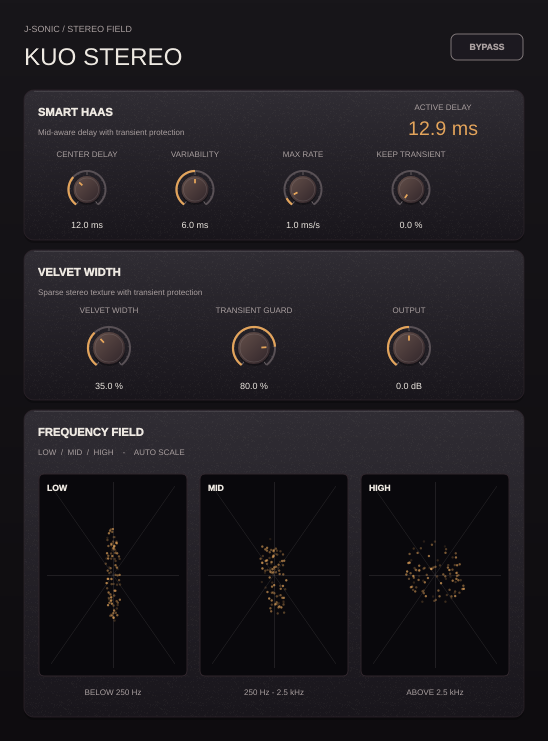
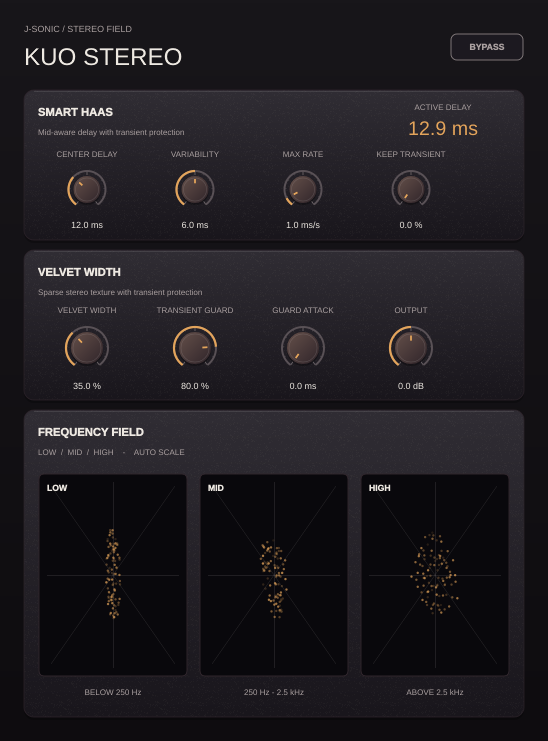
Add adjustable Velvet Guard attack and document transient response

diff --git a/projects/KuoStereo/Tests/ProcessorTests.cpp b/projects/KuoStereo/Tests/ProcessorTests.cpp
@@ -21,13 +21,14 @@ void set (KuoStereoProcessor& processor, const char* id, float value)
     parameter->setValueNotifyingHost (parameter->convertTo0to1 (value));
 }
 
-float impulseSideEnergy (float guard)
+float impulseSideEnergy (float guard, float attackMs = 0)
 {
     KuoStereoProcessor processor;
     set (processor, "haasCenter", 30);
     set (processor, "haasRange", 0);
     set (processor, "width", 100);
     set (processor, "transientProtect", guard);
+    set (processor, "guardAttack", attackMs);
     processor.prepareToPlay (48000, 256);
     juce::AudioBuffer<float> buffer (2, 256);
     juce::MidiBuffer midi;
@@ -155,7 +156,7 @@ int main (int argc, char** argv)
         check (processor.getName() == "Kuo Stereo", "plug-in identity is Kuo Stereo");
         check (std::abs (processor.getCurrentDelayMs() - 12.0f) < 0.001f,
                "active delay initially displays the default center before audio starts");
-        check (processor.getParameters().size() == 8, "all eight host parameters are registered");
+        check (processor.getParameters().size() == 9, "all nine host parameters are registered");
         auto buses = processor.getBusesLayout();
         check (processor.isBusesLayoutSupported (buses), "stereo layout is supported");
         buses.outputBuses.set (0, juce::AudioChannelSet::mono());
@@ -166,6 +167,7 @@ int main (int argc, char** argv)
         set (processor, "haasKeepTransient", 67.0f);
         set (processor, "width", 71.0f);
         set (processor, "transientProtect", 91.0f);
+        set (processor, "guardAttack", 3.5f);
         juce::MemoryBlock state;
         processor.getStateInformation (state);
         KuoStereoProcessor restored;
@@ -227,8 +229,14 @@ int main (int argc, char** argv)
         check (sideEnergy > 0.01f, "velvet convolution widens a centered sustained tone");
         const auto unguarded = impulseSideEnergy (0);
         const auto guarded = impulseSideEnergy (100);
+        const auto slowGuard = impulseSideEnergy (100, 5);
+        const auto noGuardSlowAttack = impulseSideEnergy (0, 5);
         check (unguarded > 0.01f && guarded < unguarded * 0.2f,
                "transient guard suppresses the widened impulse tail");
+        check (slowGuard > guarded && slowGuard < unguarded,
+               "Guard Attack softens attenuation of a sharp impulse");
+        check (std::abs (noGuardSlowAttack - unguarded) < 0.00001f,
+               "Guard Attack has no effect when Transient Guard is zero");
         const auto guardedBed = noiseBedSideEnergy (100);
         const auto unguardedBed = noiseBedSideEnergy (0);
         check (guardedBed > 0.0001f && guardedBed < unguardedBed * 0.25f,
@@ -398,7 +406,7 @@ int main (int argc, char** argv)
             int knobs = 0;
             for (auto* child : editor->getChildren())
                 if (dynamic_cast<juce::Slider*> (child) != nullptr) ++knobs;
-            check (knobs == 7, "editor exposes transient-aware Haas and widening controls");
+            check (knobs == 8, "editor exposes Guard Attack beside the widening controls");
             const auto image = editor->createComponentSnapshot (editor->getLocalBounds());
             check (image.isValid(), "frequency-split goniometer editor renders");
             if (argc > 2)

diff --git a/projects/KuoStereo/Measurements/generate_report.py b/projects/KuoStereo/Measurements/generate_report.py
@@ -112,6 +112,8 @@ def main(raw_dir, report_dir):
     tail = (transient_time >= 4) & (transient_time < 28)
     no_guard = rms(columns["velvet_side_no_guard"][tail])
     guard = rms(columns["velvet_side_guard"][tail])
+    guard_half_ms = rms(columns["velvet_side_attack_half_ms"][tail])
+    guard_five_ms = rms(columns["velvet_side_attack_five_ms"][tail])
     onset_index = int(np.argmin(np.abs(transient_time)))
     delay = read_csv(raw_dir / "transient_delay.csv")
     delay_time = np.array([float(row["time_ms"]) for row in delay])
@@ -130,7 +132,9 @@ def main(raw_dir, report_dir):
     kernel = np.ones(24) / 24  # 0.5 ms moving RMS at 48 kHz
     for key, label, colour in (
         ("velvet_side_no_guard", "Velvet guard 0%", "#314e79"),
-        ("velvet_side_guard", "Velvet guard 100%", "#ca7939"),
+        ("velvet_side_guard", "Guard 100%, attack 0 ms", "#ca7939"),
+        ("velvet_side_attack_half_ms", "Guard 100%, attack 0.5 ms", "#569477"),
+        ("velvet_side_attack_five_ms", "Guard 100%, attack 5 ms", "#9869a7"),
     ):
         envelope = np.sqrt(np.convolve(columns[key] ** 2, kernel, mode="same"))
         axes[2].plot(transient_time, envelope, color=colour, label=label)
@@ -259,6 +263,9 @@ def main(raw_dir, report_dir):
         "Haas Keep holds for 10 ms after the last detected onset, then crossfades",
         "back over 65 ms. Velvet Guard attenuates convolution input only while",
         "the detector reports an onset, with no fixed suppression interval.",
+        "Guard Attack sets a 0–10 ms linear ramp into attenuation while the",
+        "detector remains active. At 0 ms the guard acts immediately; longer",
+        "settings let more of a brief attack into Velvet's convolution history.",
         "",
         "![Equal-amplitude spectral onset](spectral-onset.png)",
         "",
@@ -278,9 +285,14 @@ def main(raw_dir, report_dir):
         f'- At onset, the right sample is {columns["right_normal"][onset_index]:.4f} with Keep 0% '
         f'and {columns["right_kept"][onset_index]:.4f} with Keep 100% '
         f'(input {columns["input"][onset_index]:.4f}).',
-        f'- Velvet-added side RMS from 4–28 ms is {no_guard:.5f} at Guard 0% '
-        f'and {guard:.5f} at Guard 100% '
-        f'({100 * (1 - guard / no_guard):.1f}% reduction).',
+        "",
+        "| Guard Attack | Velvet-added side RMS, 4–28 ms | Reduction vs Guard 0% |",
+        "| --- | ---: | ---: |",
+        f'| Guard 0% | {no_guard:.5f} | — |',
+        f'| 0 ms | {guard:.5f} | {100 * (1 - guard / no_guard):.1f}% |',
+        f'| 0.5 ms | {guard_half_ms:.5f} | {100 * (1 - guard_half_ms / no_guard):.1f}% |',
+        f'| 5 ms | {guard_five_ms:.5f} | {100 * (1 - guard_five_ms / no_guard):.1f}% |',
+        "",
         "- The protected Haas path reaches 0 ms during the onset and returns after",
         "  its 10 ms hold and 65 ms tap crossfade; normal Haas stays at 12 ms.",
         "",

diff --git a/projects/KuoStereo/Source/PluginProcessor.cpp b/projects/KuoStereo/Source/PluginProcessor.cpp
@@ -18,6 +18,7 @@ juce::AudioProcessorValueTreeState::ParameterLayout KuoStereoProcessor::layout()
     add ("haasKeepTransient", "Haas keep transient", 0, 100, 0.1f, 0, "%");
     add ("width", "Velvet width", 0, 100, 0.1f, 35, "%");
     add ("transientProtect", "Transient protection", 0, 100, 0.1f, 80, "%");
+    add ("guardAttack", "Velvet guard attack", 0, 10, 0.1f, 0, "ms");
     add ("output", "Output", -12, 12, 0.1f, 0, "dB");
     result.add (std::make_unique<juce::AudioParameterBool> (juce::ParameterID { "bypass", 1 },
         "Bypass", false));
@@ -47,6 +48,7 @@ void KuoStereoProcessor::prepareToPlay (double rate, int)
     detectorLowStates = {};
     detectorFastEnvelopes = detectorSlowEnvelopes = {};
     haasTransientEnvelope = 0;
+    velvetGuardEnvelope = 0;
     widthBlend = 0;
     const auto centerDelayMs = parameters.getRawParameterValue ("haasCenter")->load();
     targetDelaySamples = smoothDelaySamples = centerDelayMs * 0.001f * sampleRate;
@@ -252,6 +254,9 @@ void KuoStereoProcessor::processBlock (juce::AudioBuffer<float>& buffer, juce::M
     const auto transientReleaseStep = 1.0f / (0.065f * sampleRate);
     const auto widthTarget = parameters.getRawParameterValue ("width")->load() * 0.01f;
     const auto protection = parameters.getRawParameterValue ("transientProtect")->load() * 0.01f;
+    const auto guardAttackMs = parameters.getRawParameterValue ("guardAttack")->load();
+    const auto guardAttackStep = guardAttackMs <= 0.0f ? 1.0f
+        : 1.0f / (guardAttackMs * 0.001f * sampleRate);
     const auto gain = juce::Decibels::decibelsToGain (parameters.getRawParameterValue ("output")->load());
     const auto bypass = parameters.getRawParameterValue ("bypass")->load() >= 0.5f;
     auto* left = buffer.getWritePointer (0);
@@ -282,8 +287,9 @@ void KuoStereoProcessor::processBlock (juce::AudioBuffer<float>& buffer, juce::M
             transientHold = juce::roundToInt (0.010f * sampleRate);
         else if (transientHold > 0)
             --transientHold;
-        // Guard only detector-active samples; the Velvet history keeps its sustained texture.
-        const auto velvetInput = mid * (onset ? 1.0f - protection : 1.0f);
+        // Guard only detector-active samples; Attack controls how quickly attenuation reaches its set depth.
+        velvetGuardEnvelope = onset ? std::min (1.0f, velvetGuardEnvelope + guardAttackStep) : 0.0f;
+        const auto velvetInput = mid * (1.0f - protection * velvetGuardEnvelope);
         leftHistory[static_cast<size_t> (writePosition)] = dryLeft;
         rightHistory[static_cast<size_t> (writePosition)] = dryRight;
         midHistory[static_cast<size_t> (writePosition)] = mid;

diff --git a/projects/KuoStereo/Measurements/FeatureMeasurements.cpp b/projects/KuoStereo/Measurements/FeatureMeasurements.cpp
@@ -37,7 +37,7 @@ void set (KuoStereoProcessor& processor, const char* id, float value)
 
 struct Settings
 {
-    float center = 12, range = 0, rate = 10, keep = 0, width = 0, guard = 0;
+    float center = 12, range = 0, rate = 10, keep = 0, width = 0, guard = 0, guardAttack = 0;
 };
 
 struct Render
@@ -55,6 +55,7 @@ Render render (const Samples& input, const Settings& settings)
     set (processor, "haasKeepTransient", settings.keep);
     set (processor, "width", settings.width);
     set (processor, "transientProtect", settings.guard);
+    set (processor, "guardAttack", settings.guardAttack);
     processor.prepareToPlay (sampleRate, blockSize);
     Render result;
     result.left.resize (input.size());
@@ -131,8 +132,11 @@ void measureTransient (const std::filesystem::path& directory)
     const auto kept = render (input, { 12, 0, 10, 100, 0, 0 });
     const auto unguarded = render (input, { 12, 0, 10, 0, 100, 0 });
     const auto guarded = render (input, { 12, 0, 10, 0, 100, 100 });
+    const auto guardedFast = render (input, { 12, 0, 10, 0, 100, 100, 0.5f });
+    const auto guardedSlow = render (input, { 12, 0, 10, 0, 100, 100, 5.0f });
     std::ofstream csv (directory / "transient.csv");
-    csv << "time_ms,input,right_normal,right_kept,velvet_side_no_guard,velvet_side_guard\n"
+    csv << "time_ms,input,right_normal,right_kept,velvet_side_no_guard,velvet_side_guard,"
+           "velvet_side_attack_half_ms,velvet_side_attack_five_ms\n"
         << std::fixed << std::setprecision (10);
     for (int i = onset - sampleRate / 200; i < onset + sampleRate / 20; ++i)
     {
@@ -141,7 +145,9 @@ void measureTransient (const std::filesystem::path& directory)
         csv << 1000.0 * (i - onset) / sampleRate << ',' << input[index] << ','
             << baseline.right[index] << ',' << kept.right[index] << ','
             << unguarded.left[index] - unguarded.right[index] - side << ','
-            << guarded.left[index] - guarded.right[index] - side << '\n';
+            << guarded.left[index] - guarded.right[index] - side << ','
+            << guardedFast.left[index] - guardedFast.right[index] - side << ','
+            << guardedSlow.left[index] - guardedSlow.right[index] - side << '\n';
     }
     std::ofstream delay (directory / "transient_delay.csv");
     delay << "time_ms,normal_ms,kept_ms\n" << std::fixed << std::setprecision (9);

diff --git a/projects/KuoStereo/Source/PluginEditor.cpp b/projects/KuoStereo/Source/PluginEditor.cpp
@@ -122,13 +122,13 @@ KuoStereoEditor::KuoStereoEditor (KuoStereoProcessor& p)
     setLookAndFeel (&look);
     addAndMakeVisible (bypass);
     bypassAttachment = std::make_unique<State::ButtonAttachment> (p.parameters, "bypass", bypass);
-    constexpr std::array<const char*, 7> ids {
+    constexpr std::array<const char*, 8> ids {
         "haasCenter", "haasRange", "haasRate", "haasKeepTransient",
-        "width", "transientProtect", "output" };
-    constexpr std::array<const char*, 7> names {
+        "width", "transientProtect", "guardAttack", "output" };
+    constexpr std::array<const char*, 8> names {
         "CENTER DELAY", "VARIABILITY", "MAX RATE", "KEEP TRANSIENT",
-        "VELVET WIDTH", "TRANSIENT GUARD", "OUTPUT" };
-    constexpr std::array<const char*, 7> units { " ms", " ms", " ms/s", " %", " %", " %", " dB" };
+        "VELVET WIDTH", "TRANSIENT GUARD", "GUARD ATTACK", "OUTPUT" };
+    constexpr std::array<const char*, 8> units { " ms", " ms", " ms/s", " %", " %", " %", " ms", " dB" };
     for (size_t i = 0; i < sliders.size(); ++i)
     {
         auto& slider = sliders[i];
@@ -155,14 +155,15 @@ KuoStereoEditor::KuoStereoEditor (KuoStereoProcessor& p)
 void KuoStereoEditor::resized()
 {
     bypass.setBounds (450, 33, 74, 28);
-    const std::array<juce::Rectangle<int>, 7> positions {
+    const std::array<juce::Rectangle<int>, 8> positions {
         juce::Rectangle<int> (35, 163, 104, 70),
         juce::Rectangle<int> (143, 163, 104, 70),
         juce::Rectangle<int> (251, 163, 104, 70),
         juce::Rectangle<int> (359, 163, 104, 70),
-        juce::Rectangle<int> (44, 319, 130, 75),
-        juce::Rectangle<int> (189, 319, 130, 75),
-        juce::Rectangle<int> (344, 319, 130, 75)
+        juce::Rectangle<int> (35, 319, 104, 75),
+        juce::Rectangle<int> (143, 319, 104, 75),
+        juce::Rectangle<int> (251, 319, 104, 75),
+        juce::Rectangle<int> (359, 319, 104, 75)
     };
     for (size_t i = 0; i < sliders.size(); ++i)
     {

diff --git a/projects/KuoStereo/Source/PluginEditor.h b/projects/KuoStereo/Source/PluginEditor.h
@@ -30,10 +30,10 @@ private:
     KuoStereoProcessor& processor;
     KuoLookAndFeel look;
     KuoBypassButton bypass;
-    std::array<juce::Slider, 7> sliders;
-    std::array<juce::Label, 7> labels;
+    std::array<juce::Slider, 8> sliders;
+    std::array<juce::Label, 8> labels;
     using State = juce::AudioProcessorValueTreeState;
-    std::array<std::unique_ptr<State::SliderAttachment>, 7> attachments;
+    std::array<std::unique_ptr<State::SliderAttachment>, 8> attachments;
     std::unique_ptr<State::ButtonAttachment> bypassAttachment;
     JUCE_DECLARE_NON_COPYABLE_WITH_LEAK_DETECTOR (KuoStereoEditor)
 };

diff --git a/projects/KuoStereo/Source/PluginProcessor.h b/projects/KuoStereo/Source/PluginProcessor.h
@@ -61,7 +61,7 @@ private:
     int transientHold = 0;
     float sampleRate = 48000.0f, targetDelaySamples = 576.0f, smoothDelaySamples = 576.0f;
     float previousCenterDelayMs = -1, previousVariabilityMs = -1;
-    float widthBlend = 0, haasTransientEnvelope = 0;
+    float widthBlend = 0, haasTransientEnvelope = 0, velvetGuardEnvelope = 0;
     std::array<float, 3> detectorLowStates {}, detectorCoefficients {};
     std::array<float, 4> detectorFastEnvelopes {}, detectorSlowEnvelopes {};
     float lowCoefficient = 0, upperCoefficient = 0, fastCoefficient = 0, slowCoefficient = 0;

diff --git a/projects/KuoStereo/Measurements/Report/REPORT.md b/projects/KuoStereo/Measurements/Report/REPORT.md
@@ -47,6 +47,9 @@ tone switches to 5 kHz after 1 s; both tones are 0.18 peak amplitude.
 Haas Keep holds for 10 ms after the last detected onset, then crossfades
 back over 65 ms. Velvet Guard attenuates convolution input only while
 the detector reports an onset, with no fixed suppression interval.
+Guard Attack sets a 0–10 ms linear ramp into attenuation while the
+detector remains active. At 0 ms the guard acts immediately; longer
+settings let more of a brief attack into Velvet's convolution history.
 
 ![Equal-amplitude spectral onset](spectral-onset.png)
 
@@ -64,7 +67,14 @@ Separately, Velvet Width is 100% and Transient Guard is compared at 0% and
 ![Transient timing and side-tail protection](transients.png)
 
 - At onset, the right sample is 0.0011 with Keep 0% and 0.9995 with Keep 100% (input 0.9995).
-- Velvet-added side RMS from 4–28 ms is 0.03363 at Guard 0% and 0.00111 at Guard 100% (96.7% reduction).
+
+| Guard Attack | Velvet-added side RMS, 4–28 ms | Reduction vs Guard 0% |
+| --- | ---: | ---: |
+| Guard 0% | 0.03363 | — |
+| 0 ms | 0.00111 | 96.7% |
+| 0.5 ms | 0.02992 | 11.0% |
+| 5 ms | 0.03308 | 1.6% |
+
 - The protected Haas path reaches 0 ms during the onset and returns after
   its 10 ms hold and 65 ms tap crossfade; normal Haas stays at 12 ms.
 

diff --git a/projects/KuoStereo/README.md b/projects/KuoStereo/README.md
@@ -26,13 +26,15 @@ transient protection, Velvet widening, and the frequency display.
   channel to the side channel. Transient Guard uses the shared mid-channel
   onset detector to attenuate only detected onset samples before convolution;
   existing sustained side texture continues while the attack stays focused.
+  Guard Attack controls how quickly that attenuation reaches full depth, from
+  immediate to 10 ms; a longer attack lets more of a brief transient through.
 - **Frequency Field** shows three goniometers fed by the processed stereo
   output, split below 250 Hz, from 250 Hz to 2.5 kHz, and above 2.5 kHz.
   Each display scales its points automatically so quieter bands remain visible.
 
 The controls are Center Delay, Variability, Max Rate, Keep Transient, Velvet
-Width, Transient Guard, Output, and Bypass. All are host parameters and survive
-state recall.
+Width, Transient Guard, Guard Attack, Output, and Bypass. All are host
+parameters and survive state recall.
 The plug-in accepts stereo input and output, offers VST3 and Standalone builds,
 and also builds as an Audio Unit on macOS. It reports no added host latency;
 the delay and velvet paths keep up to about 30 ms of internal history.
